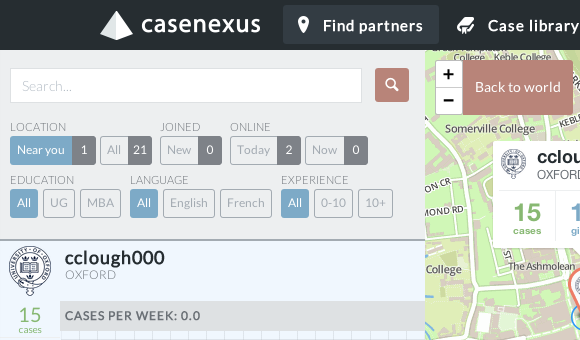
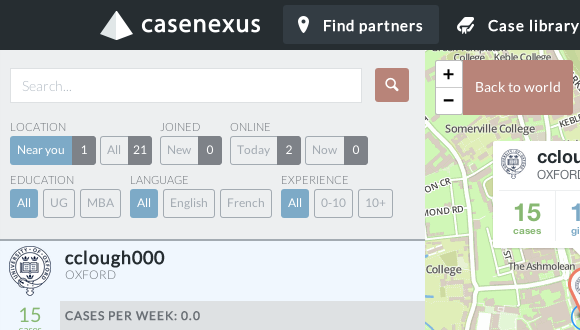
complete profile ready to upload for testing

diff --git a/app/assets/stylesheets/complete.css.scss b/app/assets/stylesheets/complete.css.scss
@@ -37,7 +37,7 @@
       height:3px;
       position:absolute;
       left:30px;
-      top:4px;
+      top:5px;
       padding:0;
       margin:0;
       z-index:0;
@@ -49,7 +49,7 @@
       height:3px;
       position:absolute;
       left:35px;
-      top:4px;
+      top:5px;
       padding:0;
       margin:0;
       z-index:19;
@@ -92,9 +92,6 @@
       }
       &.blip3 {
         left:#{28+(63 * 2)}px;
-        border:1px solid $cn_grey_-1;
-        background:white;
-        top:-2px;
       }
 
       &.blip4 {
